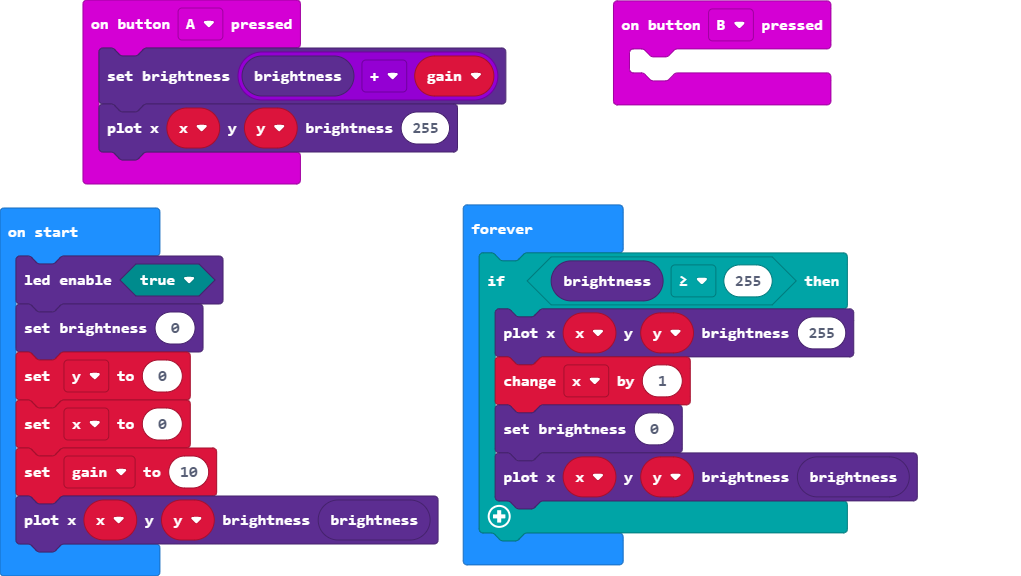
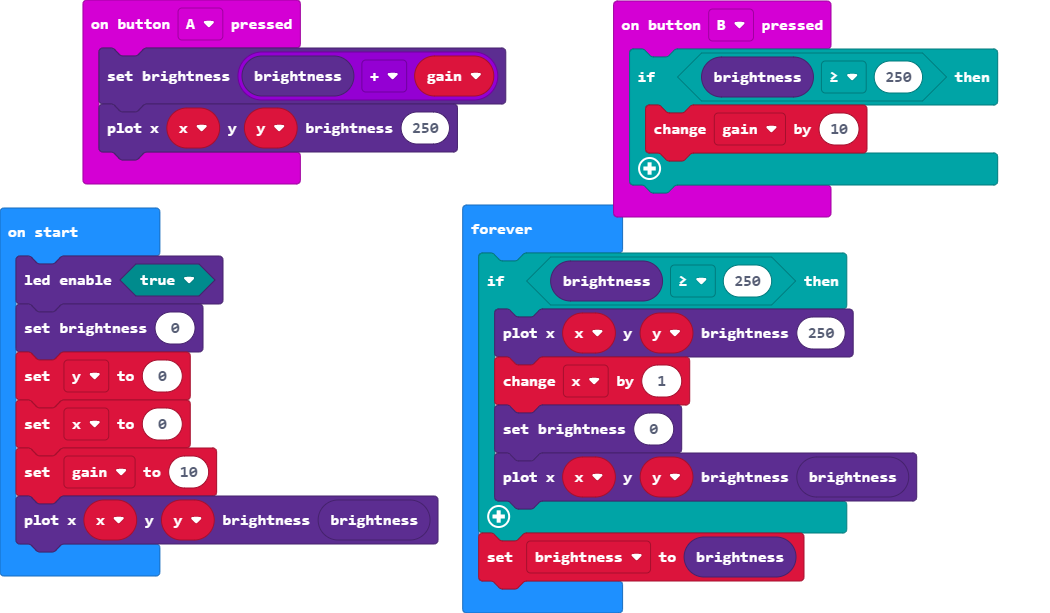
Update main.blocks, main.ts

diff --git a/main.ts b/main.ts
@@ -1,10 +1,13 @@
 input.onButtonPressed(Button.A, function () {
     led.setBrightness(led.brightness() + gain)
-    led.plotBrightness(x, y, 255)
+    led.plotBrightness(x, y, 250)
 })
 input.onButtonPressed(Button.B, function () {
-	
+    if (led.brightness() >= 250) {
+        gain += 10
+    }
 })
+let brightness = 0
 let gain = 0
 let x = 0
 let y = 0
@@ -15,10 +18,11 @@ x = 0
 gain = 10
 led.plotBrightness(x, y, led.brightness())
 basic.forever(function () {
-    if (led.brightness() >= 255) {
-        led.plotBrightness(x, y, 255)
+    if (led.brightness() >= 250) {
+        led.plotBrightness(x, y, 250)
         x += 1
         led.setBrightness(0)
         led.plotBrightness(x, y, led.brightness())
     }
+    brightness = led.brightness()
 })
